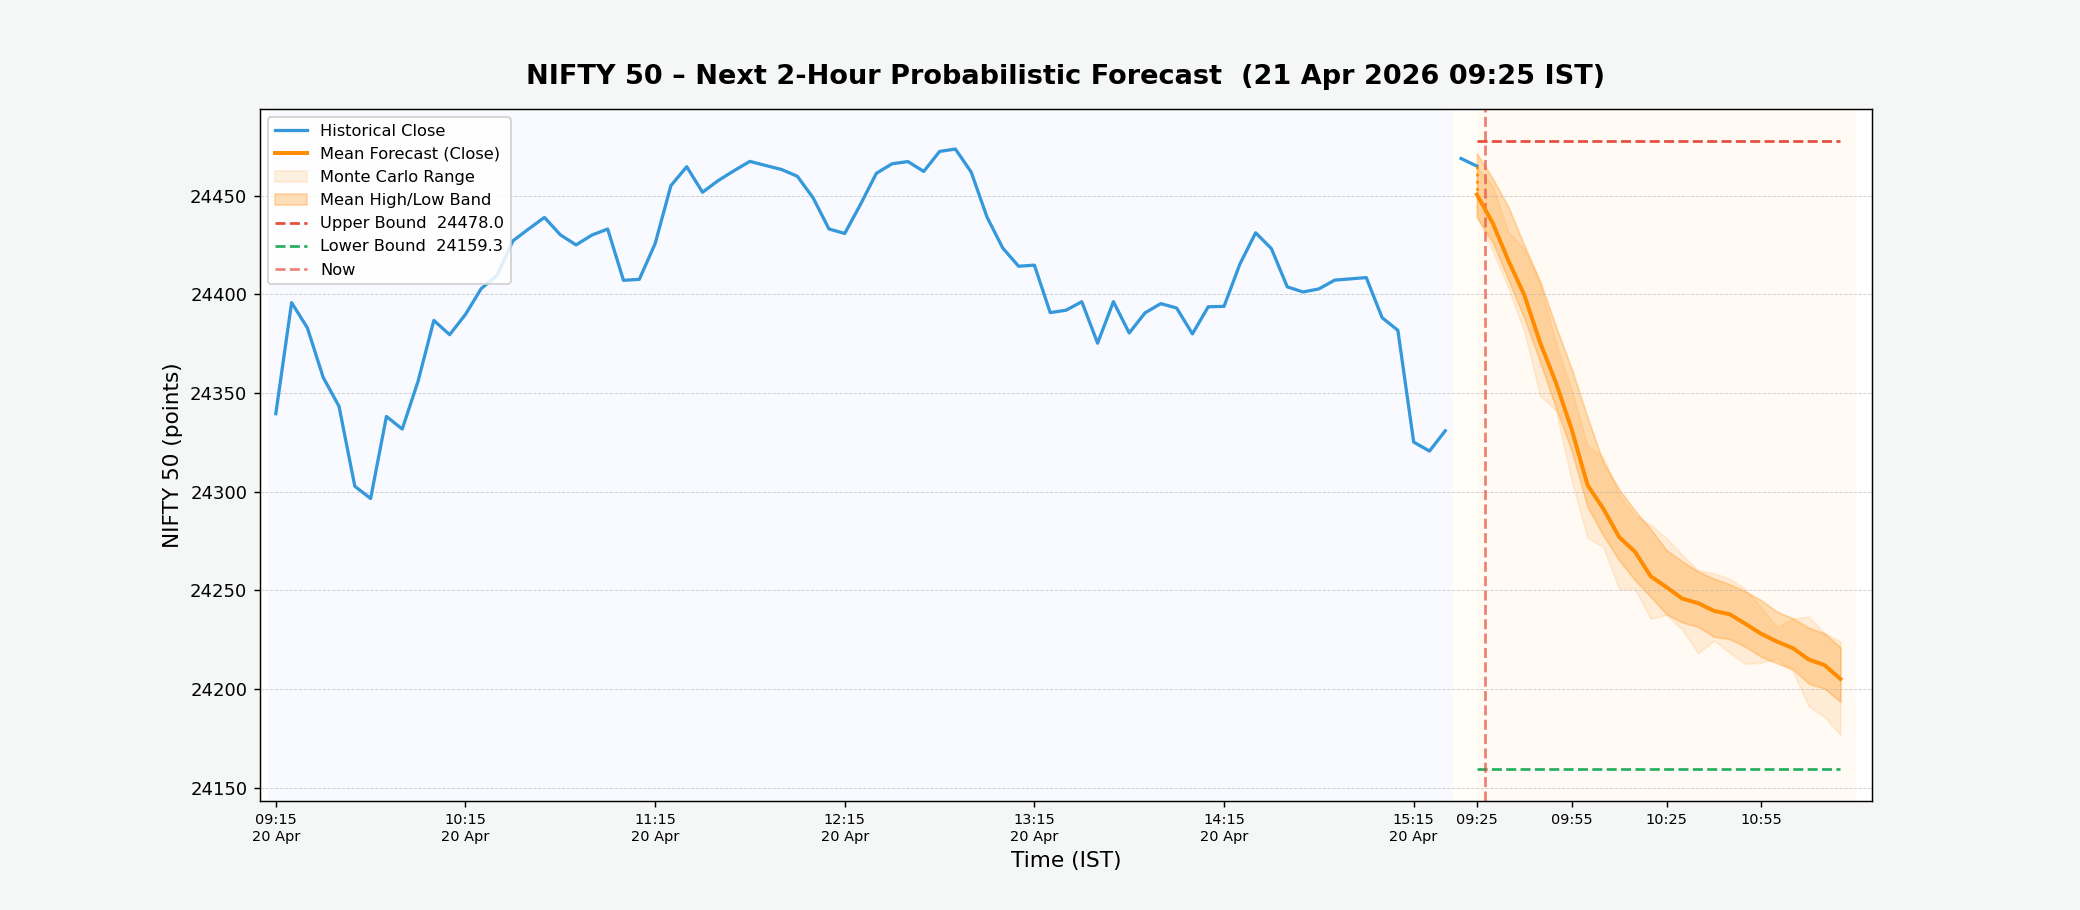
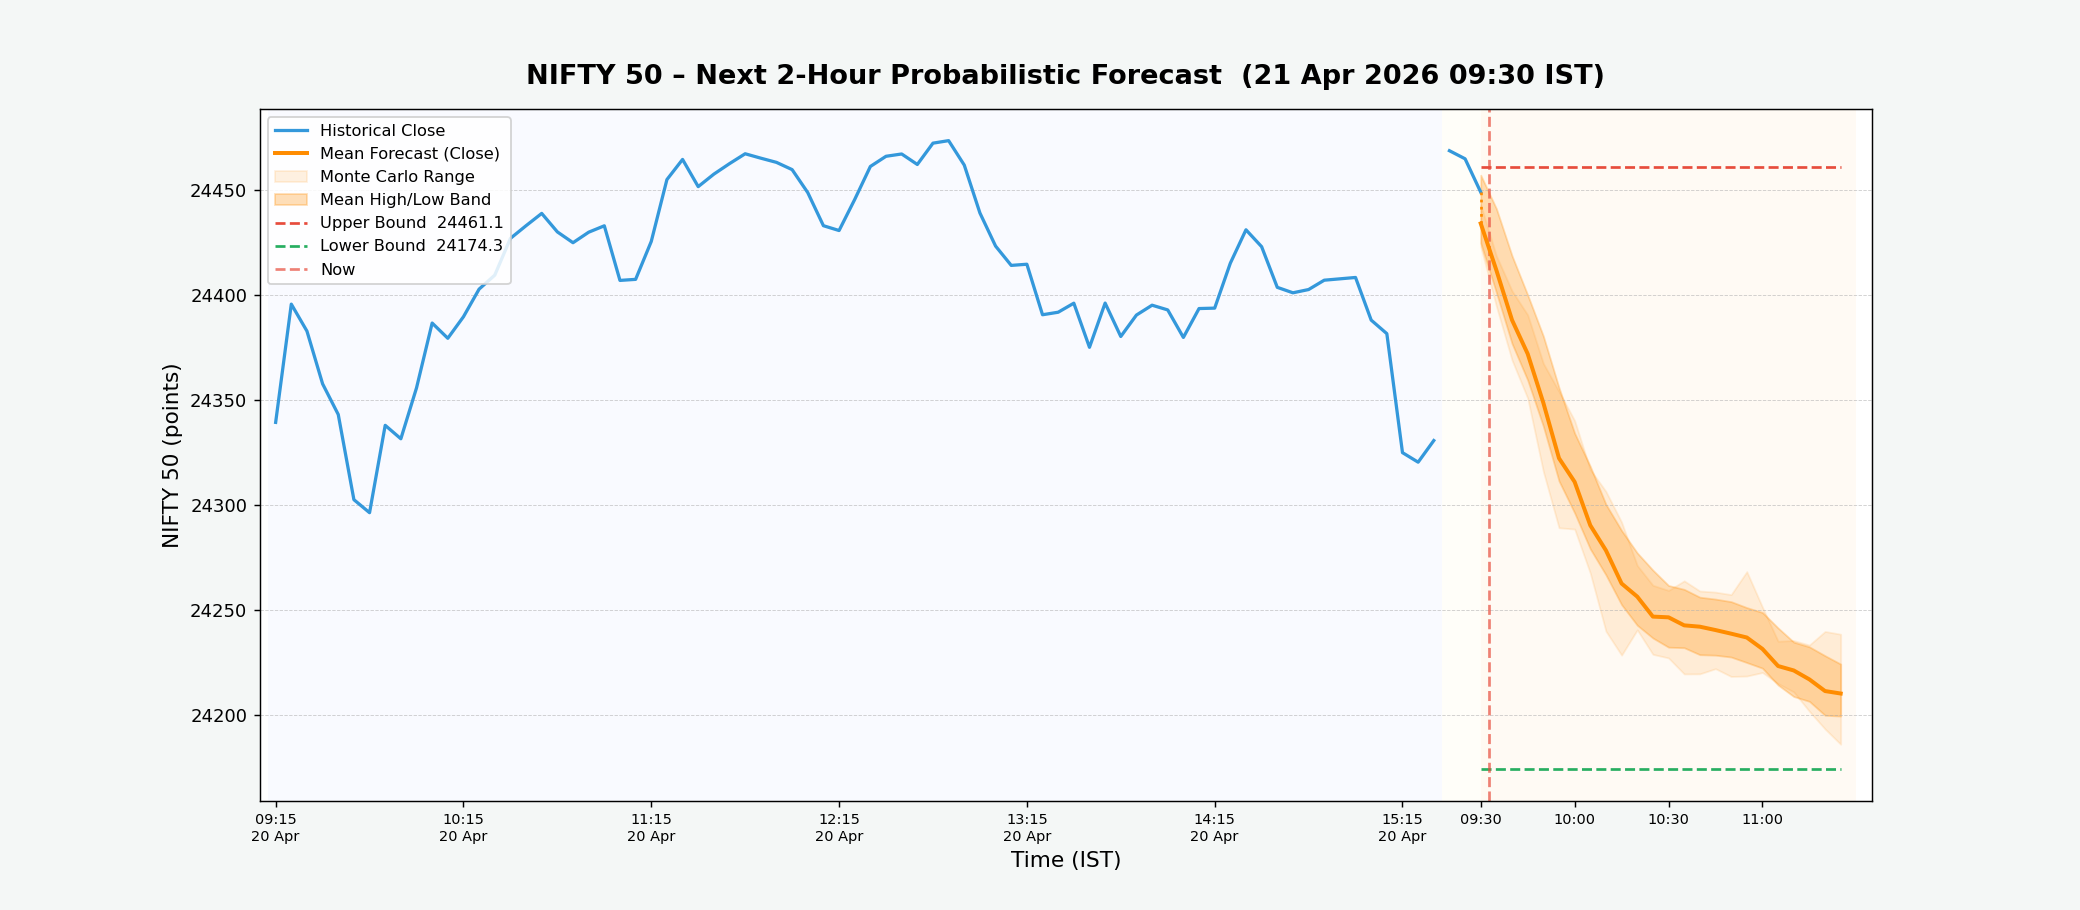
NIFTY forecast update – 2026-04-21 09:30 IST

diff --git a/index.html b/index.html
@@ -24,29 +24,29 @@
 
         <!-- Timestamp bar -->
         <div class="timestamp-bar">
-            <span>Last updated (IST):&nbsp;<strong id="update-time">2026-04-21 09:25:04</strong></span>
+            <span>Last updated (IST):&nbsp;<strong id="update-time">2026-04-21 09:30:04</strong></span>
         </div>
 
         <!-- Metric cards -->
         <div class="metrics-container">
             <div class="metric-card bullish">
                 <div class="metric-label">Bullish Bar Ratio</div>
-                <div class="metric-value" id="upside-prob">12.5%</div>
+                <div class="metric-value" id="upside-prob">13.3%</div>
                 <div class="metric-sub">Next 2h · close &gt; open %</div>
             </div>
             <div class="metric-card upper">
                 <div class="metric-label">Upper Bound</div>
-                <div class="metric-value" id="upper-bound">24478.0</div>
+                <div class="metric-value" id="upper-bound">24461.1</div>
                 <div class="metric-sub">Max predicted high</div>
             </div>
             <div class="metric-card lower">
                 <div class="metric-label">Lower Bound</div>
-                <div class="metric-value" id="lower-bound">24159.3</div>
+                <div class="metric-value" id="lower-bound">24174.3</div>
                 <div class="metric-sub">Min predicted low</div>
             </div>
             <div class="metric-card range">
                 <div class="metric-label">Predicted Range</div>
-                <div class="metric-value" id="pred-range">318.7 pts</div>
+                <div class="metric-value" id="pred-range">286.8 pts</div>
                 <div class="metric-sub">Upper − Lower spread</div>
             </div>
         </div>
